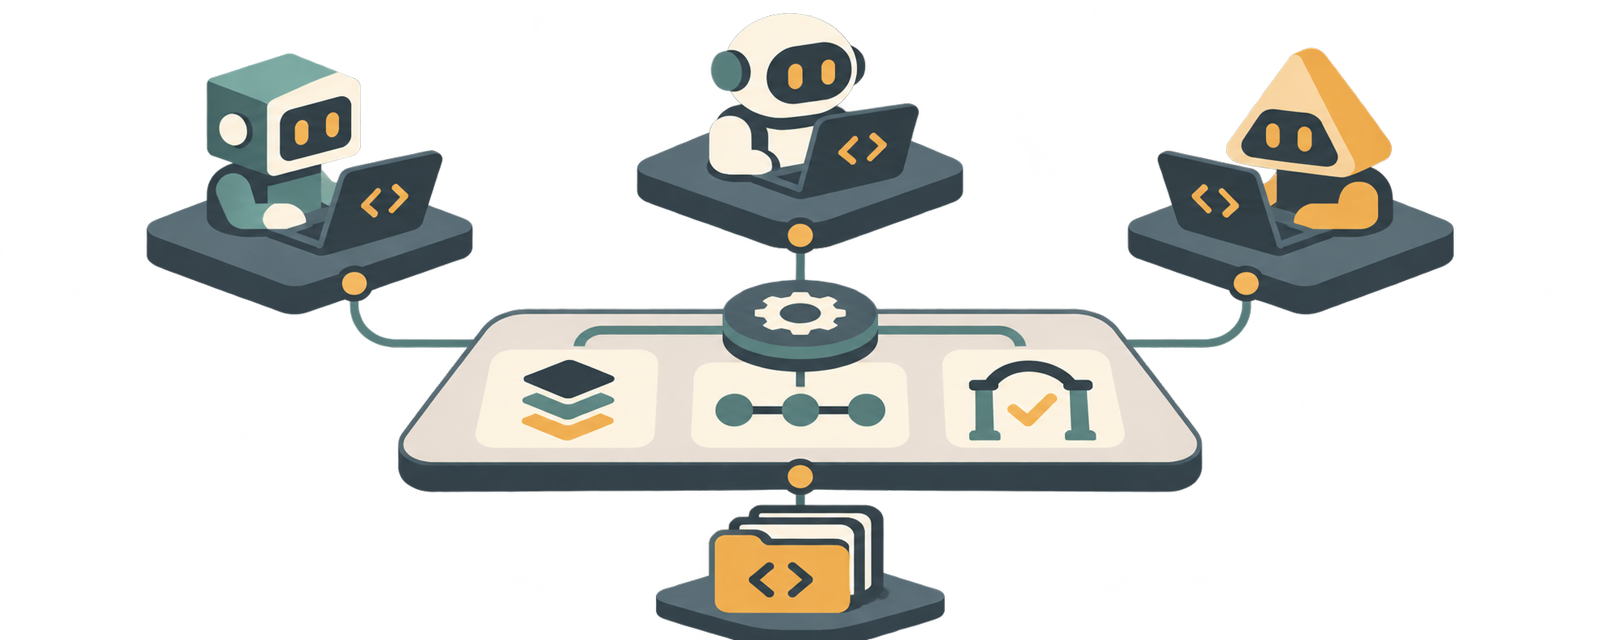
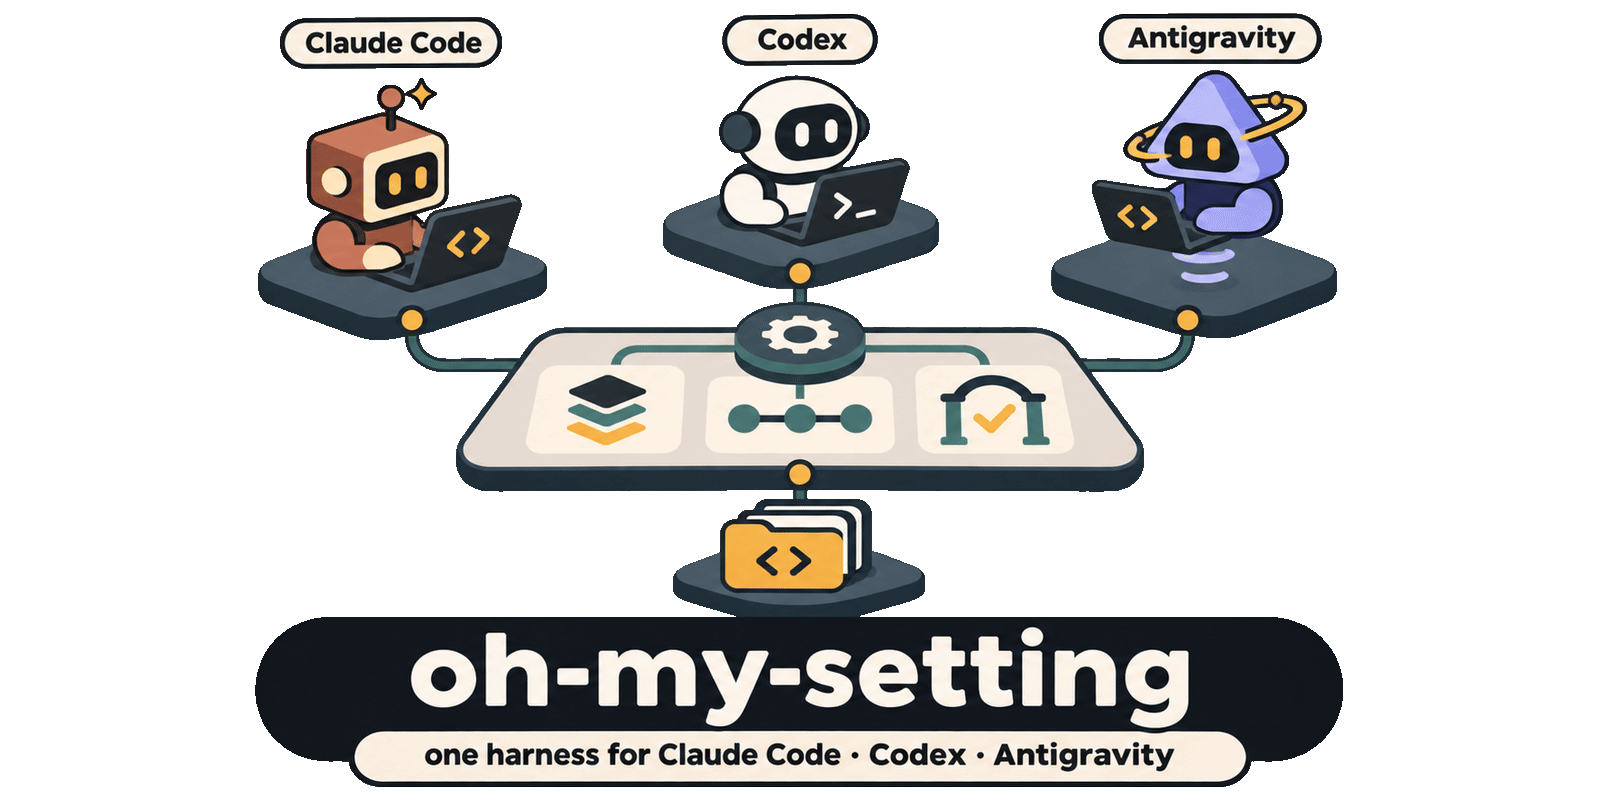
docs: README hero shows provider-flavoured Claude Code, Codex and Antigravity characters and the project name

diff --git a/README.ko.md b/README.ko.md
@@ -1,4 +1,4 @@
-<p align="center"><img src="docs/assets/hero.png" alt="세 코딩 agent가 저장소의 프로젝트 규칙, 상태와 리뷰를 중앙 계층에서 공유하는 모습" width="100%"></p>
+<p align="center"><img src="docs/assets/hero.png" alt="Claude Code, Codex, Antigravity 로봇이 저장소 위에서 프로젝트 규칙, 상태와 리뷰를 공유하고 oh-my-setting 이름과 설명이 표시된 모습" width="100%"></p>
 
 <p align="center">
   <a href="https://github.com/eightmm/oh-my-setting/actions/workflows/test.yml"><img src="https://github.com/eightmm/oh-my-setting/actions/workflows/test.yml/badge.svg?branch=main" alt="CI"></a>

diff --git a/README.md b/README.md
@@ -1,4 +1,4 @@
-<p align="center"><img src="docs/assets/hero.png" alt="Three coding agents share a central layer of project rules, state and review around a repository" width="100%"></p>
+<p align="center"><img src="docs/assets/hero.png" alt="Claude Code, Codex and Antigravity robots share project rules, state and review above a repository, with the oh-my-setting name and tagline" width="100%"></p>
 
 <p align="center">
   <a href="https://github.com/eightmm/oh-my-setting/actions/workflows/test.yml"><img src="https://github.com/eightmm/oh-my-setting/actions/workflows/test.yml/badge.svg?branch=main" alt="CI"></a>
